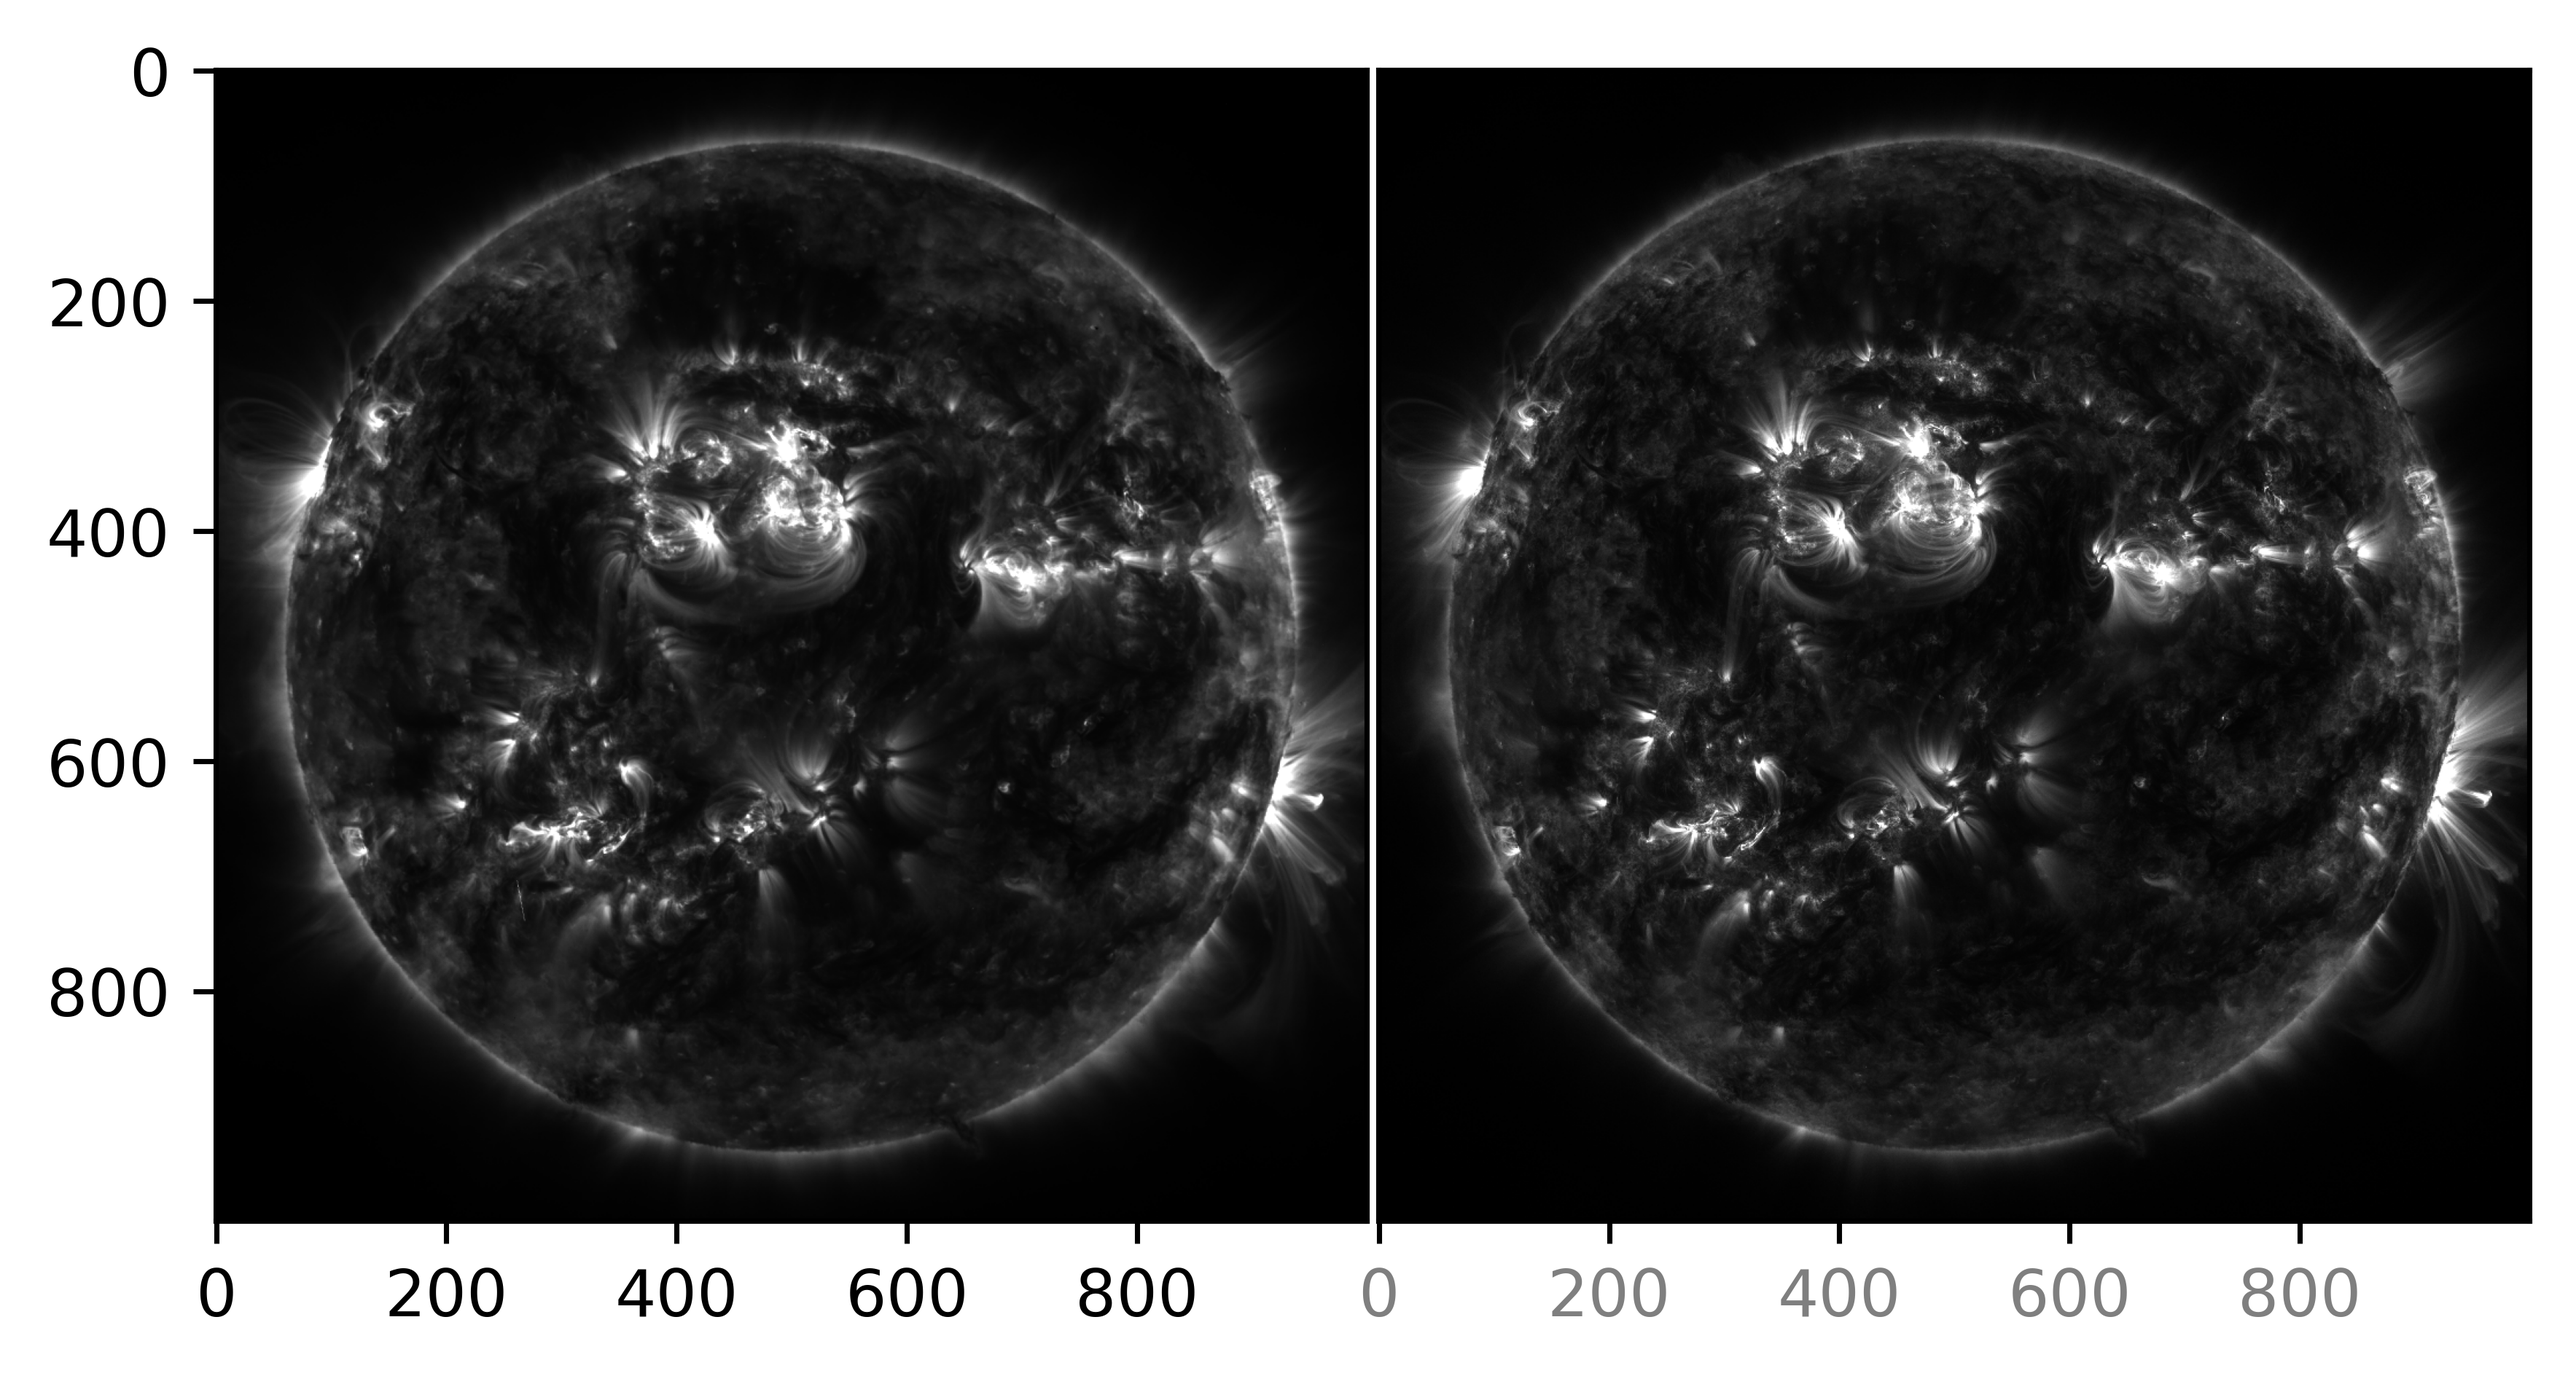
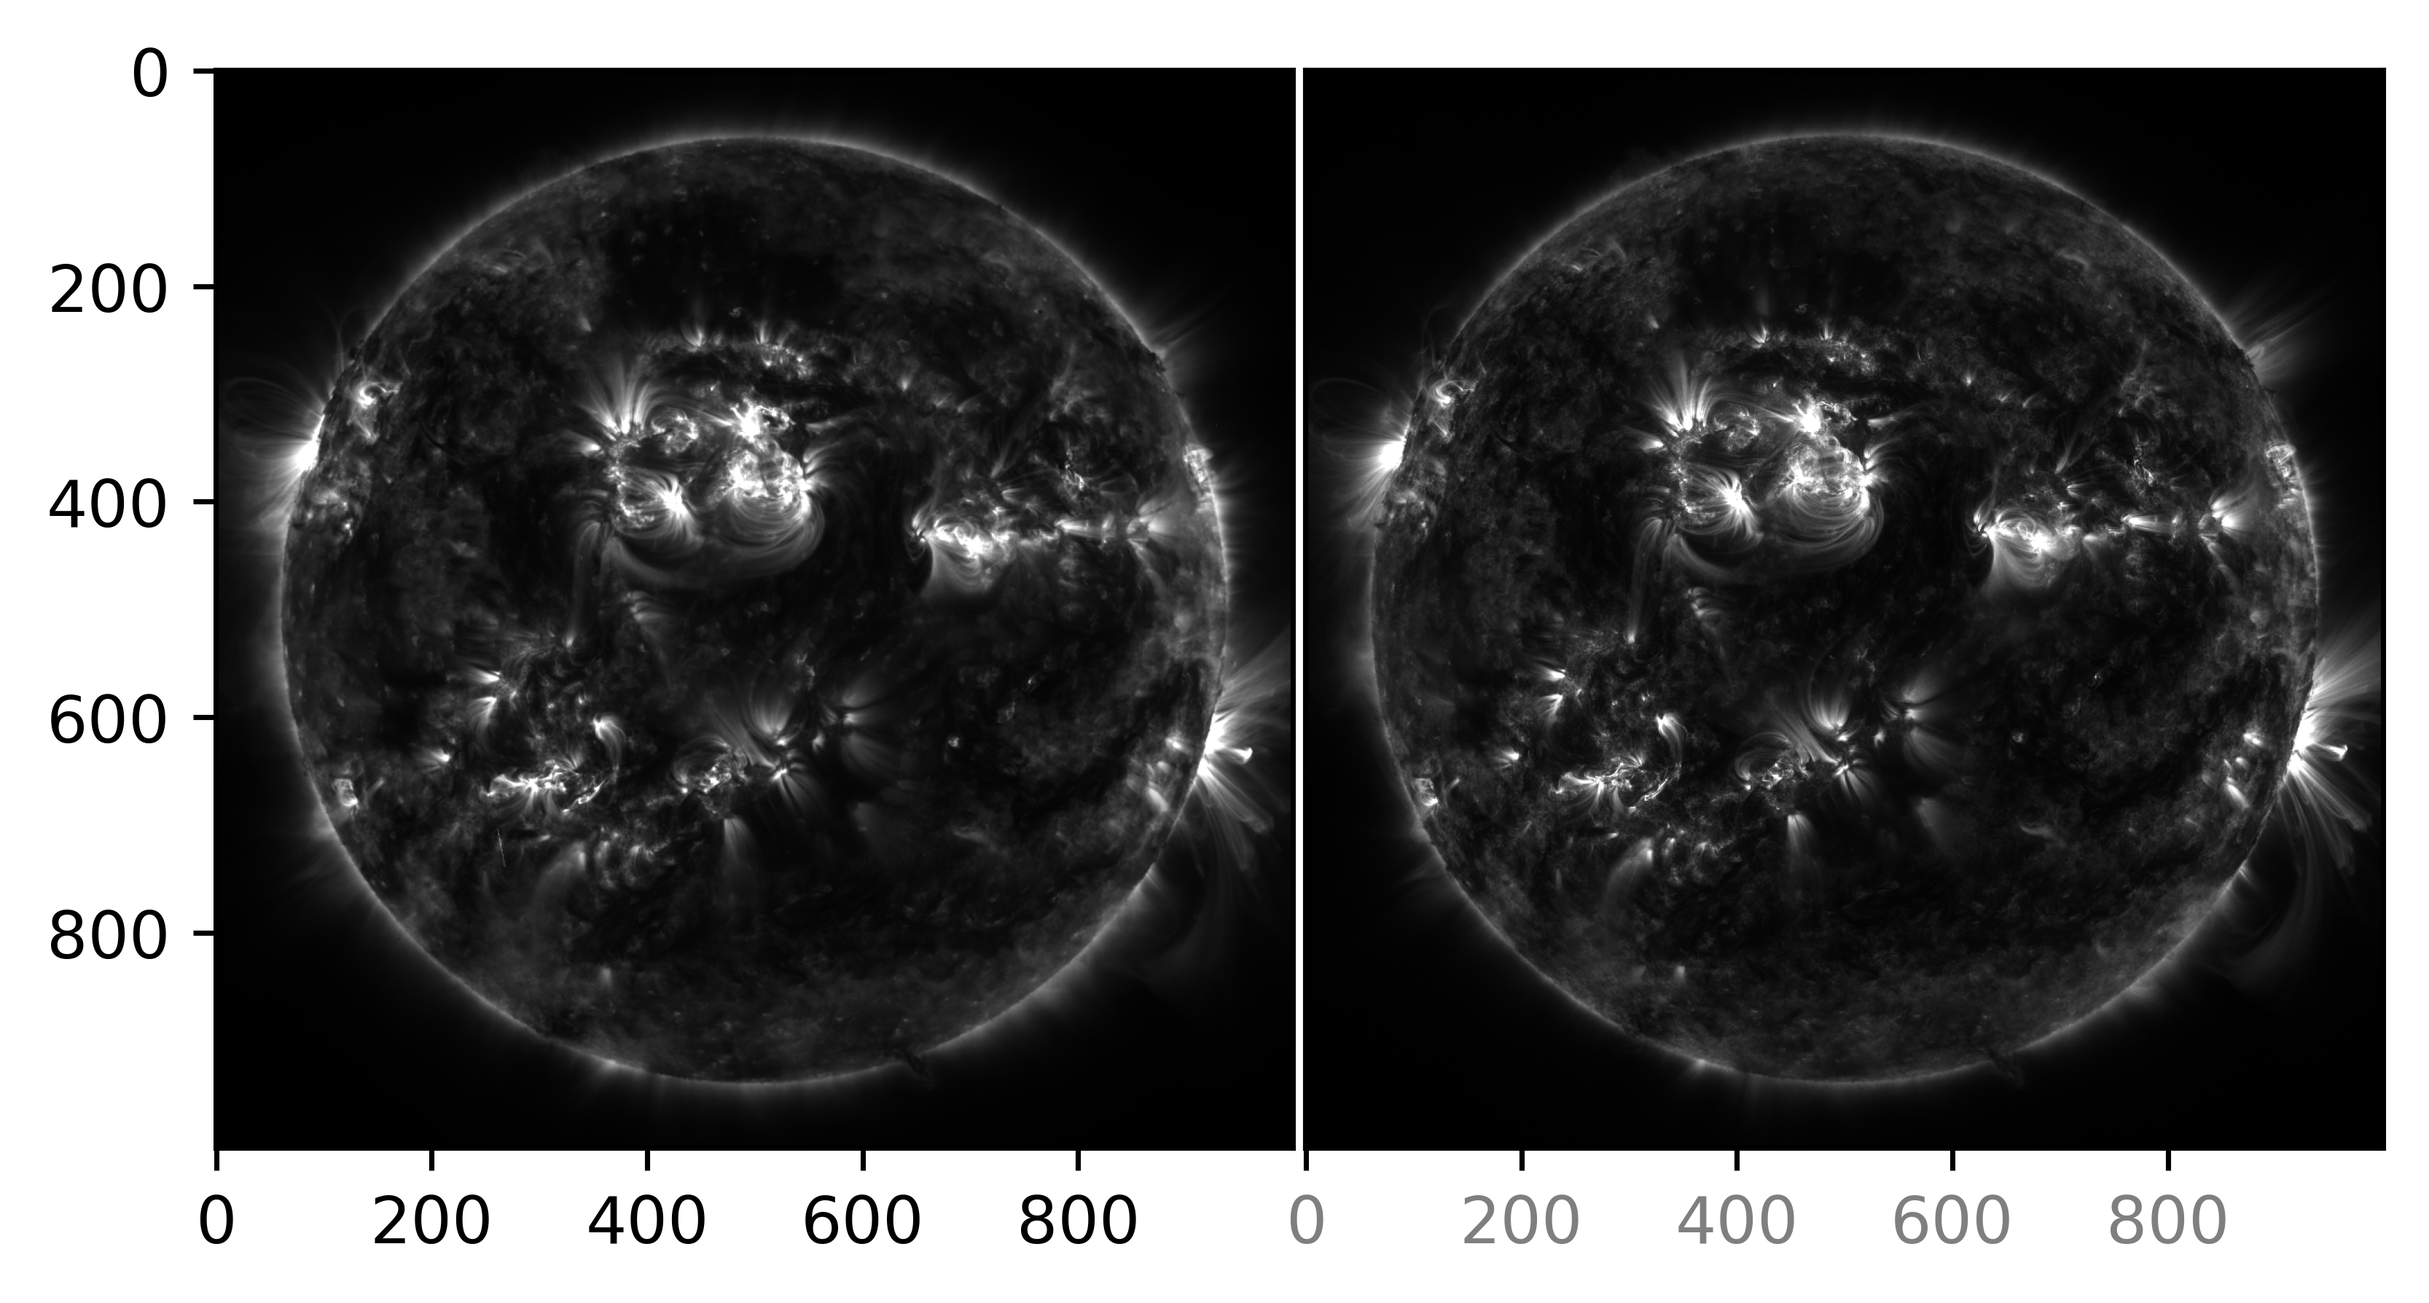
update graphics

diff --git a/docs/gen_graphics.py b/docs/gen_graphics.py
@@ -13,7 +13,7 @@ def plot_2d_trefoil(savedir=None, show=True):
     axstereo = AxesStereo2D()
     axstereo.plot(x, y, z, c='k', alpha=0.2)
     axstereo.scatter(x, y, z, c=z, cmap='viridis', s=10)
-    axstereo.fig.set_size_inches(6.0, 3)
+    axstereo.fig.set_size_inches(6, 3)
     if savedir is not None:
         plt.savefig(savedir / 'trefoil_2d.png', dpi=100)
     if show:
@@ -24,7 +24,7 @@ def plot_3d_trefoil(savedir=None, show=True):
     axstereo = AxesStereo3D()
     axstereo.plot(x, y, z, c='k', alpha=0.2)
     axstereo.scatter(x, y, z, c=z, cmap='viridis', s=10)
-    axstereo.fig.set_size_inches(6.0, 3)
+    axstereo.fig.set_size_inches(6, 3)
     if savedir is not None:
         plt.savefig(savedir / 'trefoil_3d.png', dpi=100)
     if show:
@@ -70,7 +70,7 @@ def animate_2d_trefoil(savedir=None, show=True):
     for scat in scatter:
         scat.set_edgecolor(colors)
         scat.set_facecolor(colors)
-    axstereo.fig.set_size_inches(6.0, 3)
+    axstereo.fig.set_size_inches(6, 3)
 
     def animate(frame):
         x, y, z = trefoil(frame, n_steps=N_STEPS)
@@ -105,7 +105,7 @@ def animate_3d_trefoil(savedir=None, show=True):
     for scat in scatter:
         scat.set_edgecolor(colors)
         scat.set_facecolor(colors)
-    axstereo.fig.set_size_inches(6.0, 3)
+    axstereo.fig.set_size_inches(6, 3)
 
     def animate(frame):
         x, y, z = trefoil(frame, n_steps=N_STEPS)
@@ -125,8 +125,13 @@ def animate_3d_trefoil(savedir=None, show=True):
         plt.show()
 
 def gen_logo(savedir=None, show=True):
-    # Setting limits and aspect
+    # Roll the data so the end of the line is in a straight portion
     x, y, z = trefoil()
+    n_roll = 15
+    x = np.roll(x, n_roll)
+    y = np.roll(y, n_roll)
+    z = np.roll(z, n_roll)
+
     axstereo = AxesAnaglyph(ipd=150)
     axstereo.plot(x, y, z, linewidth=6)
     axstereo.set_xlim(-4.5, 4.5)
@@ -135,7 +140,7 @@ def gen_logo(savedir=None, show=True):
     axstereo.set_axis_off()
     axstereo.fig.set_size_inches(1, 1)
     if savedir is not None:
-        plt.savefig(savedir / 'mpl_stereo_logo.png', dpi=100)
+        plt.savefig(savedir / 'mpl_stereo_logo.png', dpi=640)
     if show:
         plt.show()
     return axstereo
@@ -156,6 +161,7 @@ def plot_2d_sun(savedir=None, show=True):
     axstereo = AxesStereo2D()
     axstereo.ax_left.imshow(sun_left_data, cmap='gray')
     axstereo.ax_right.imshow(sun_right_data, cmap='gray')
+    axstereo.fig.set_size_inches(6, 3)
     if savedir is not None:
         plt.savefig(savedir / 'sun_2d.png', bbox_inches='tight', dpi=640)
     if show:
@@ -165,6 +171,7 @@ def plot_anaglyph_sun(savedir=None, show=True):
     sun_left_data, sun_right_data = sun_left_right()
     axstereo = AxesAnaglyph()
     axstereo.imshow_stereo(sun_left_data, sun_right_data)
+    axstereo.fig.set_size_inches(3, 3)
     if savedir is not None:
         plt.savefig(savedir / 'sun_anaglyph.png', bbox_inches='tight', dpi=640)
     if show:
